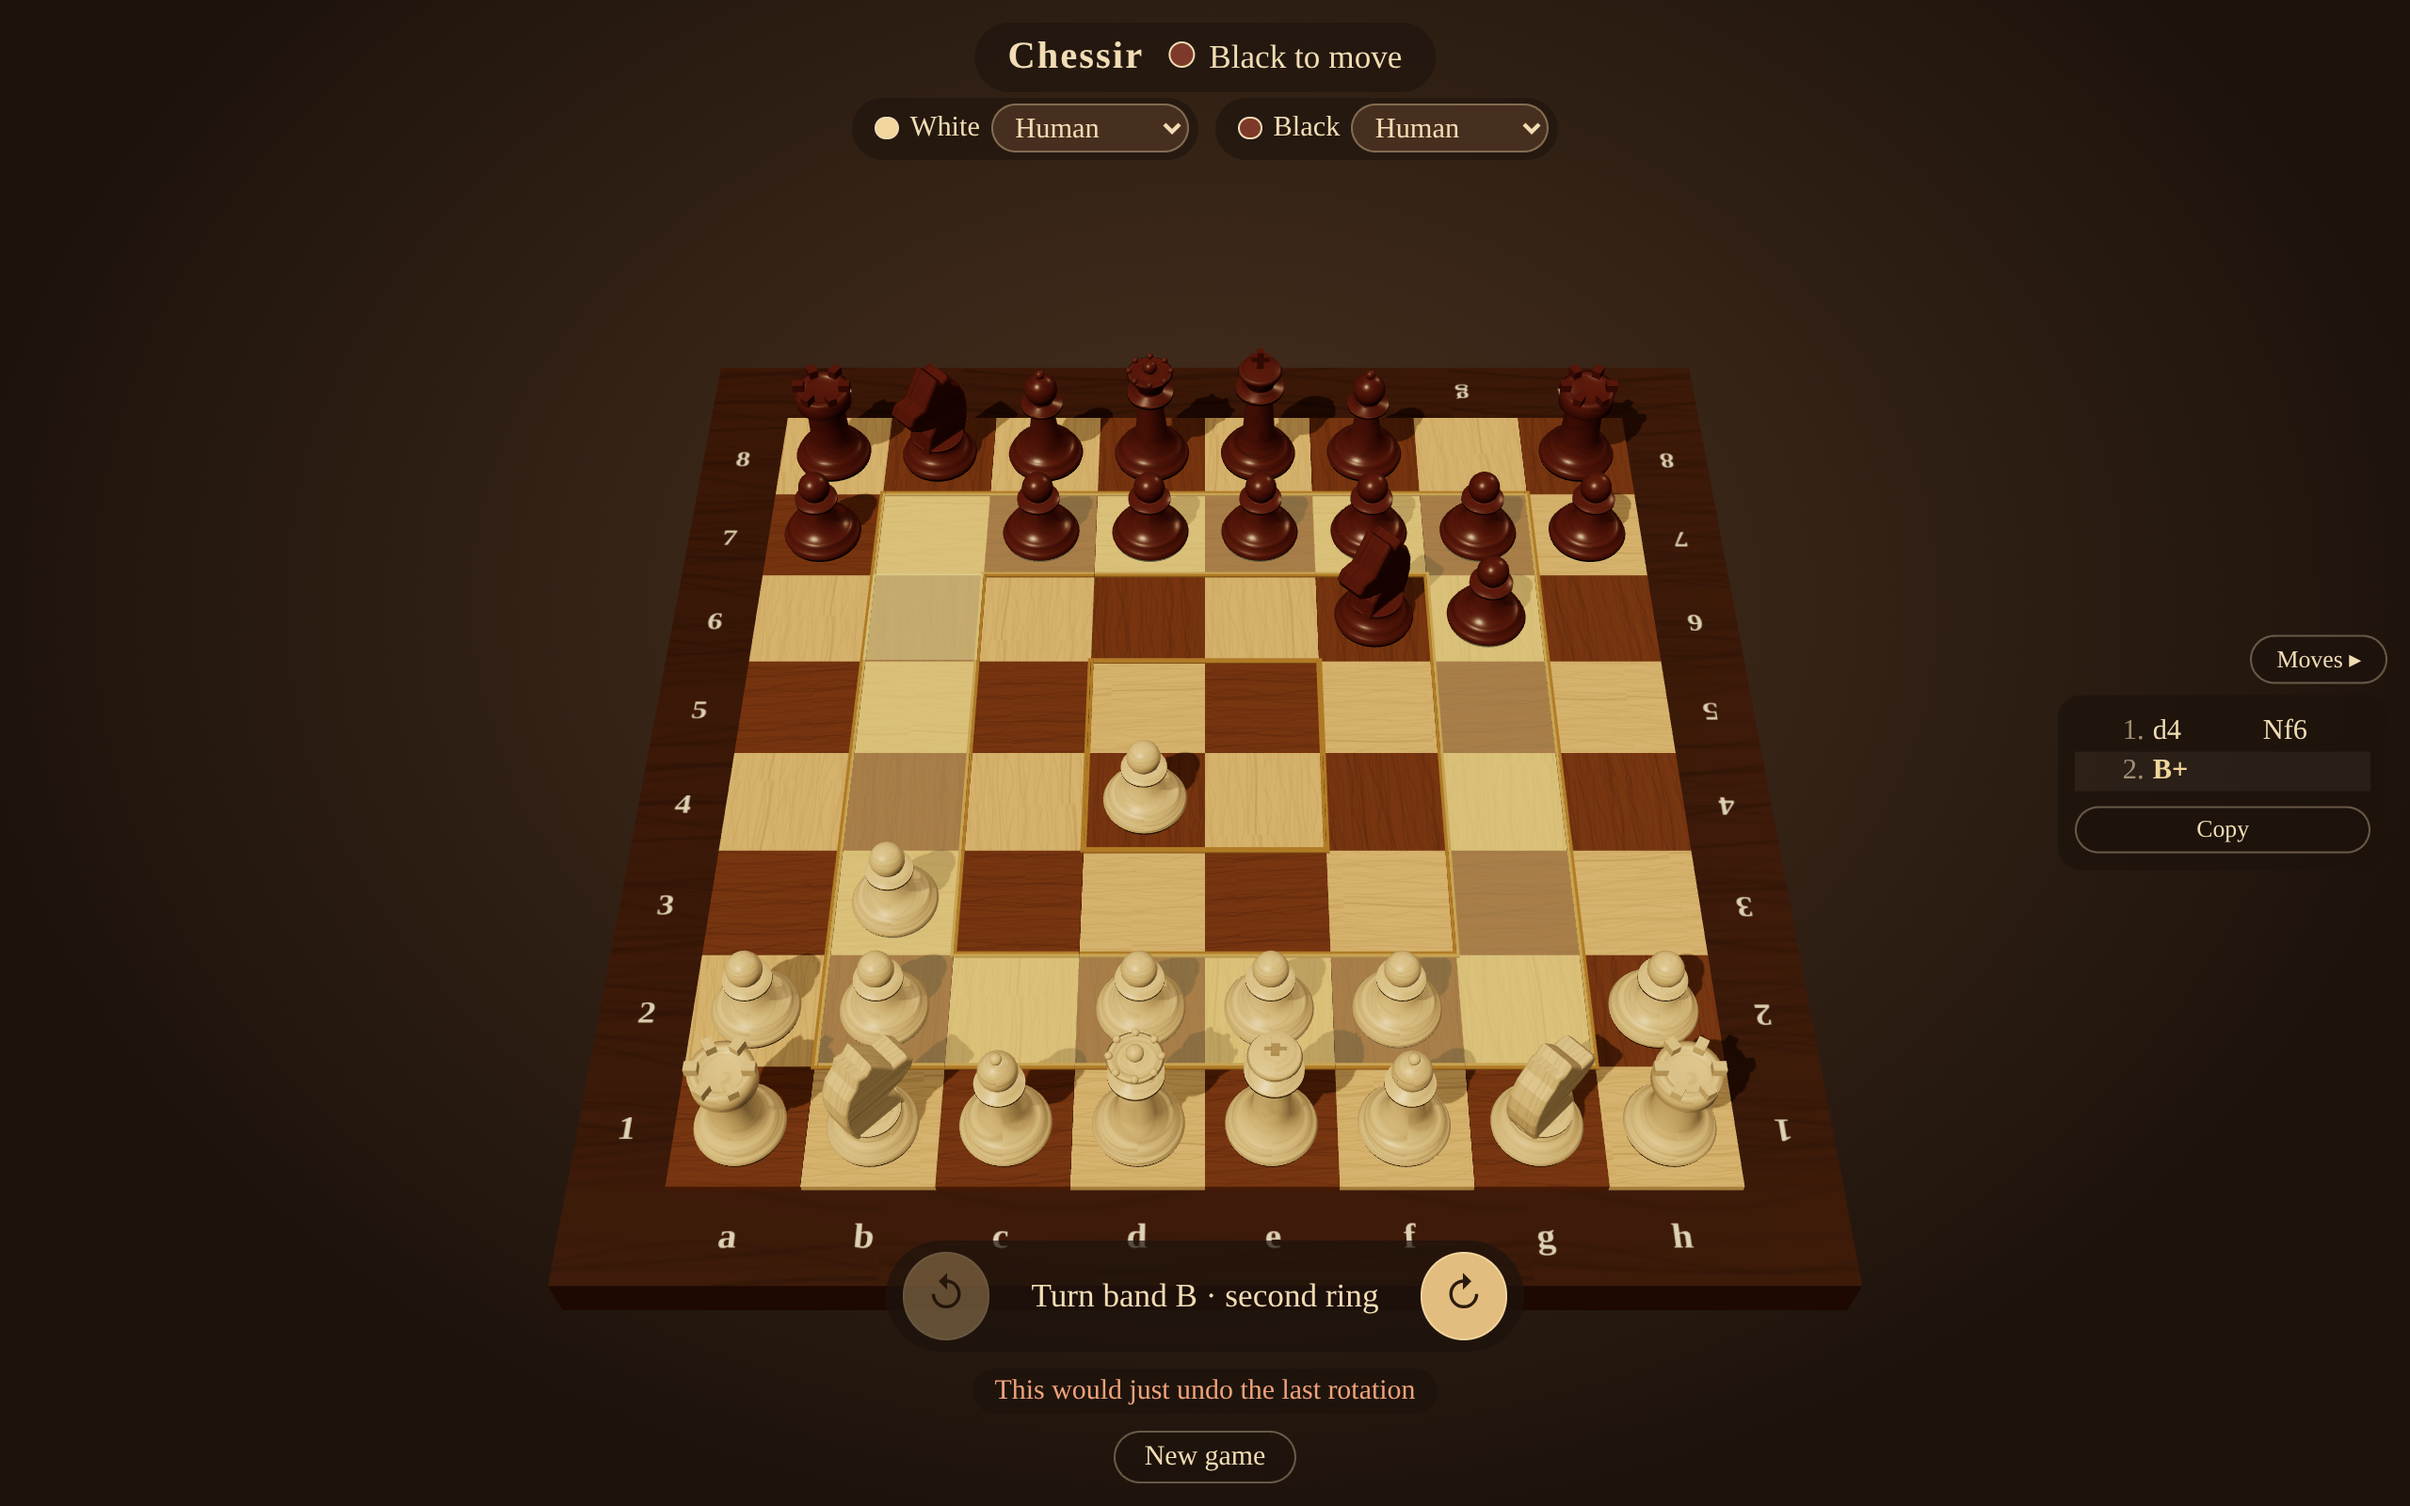
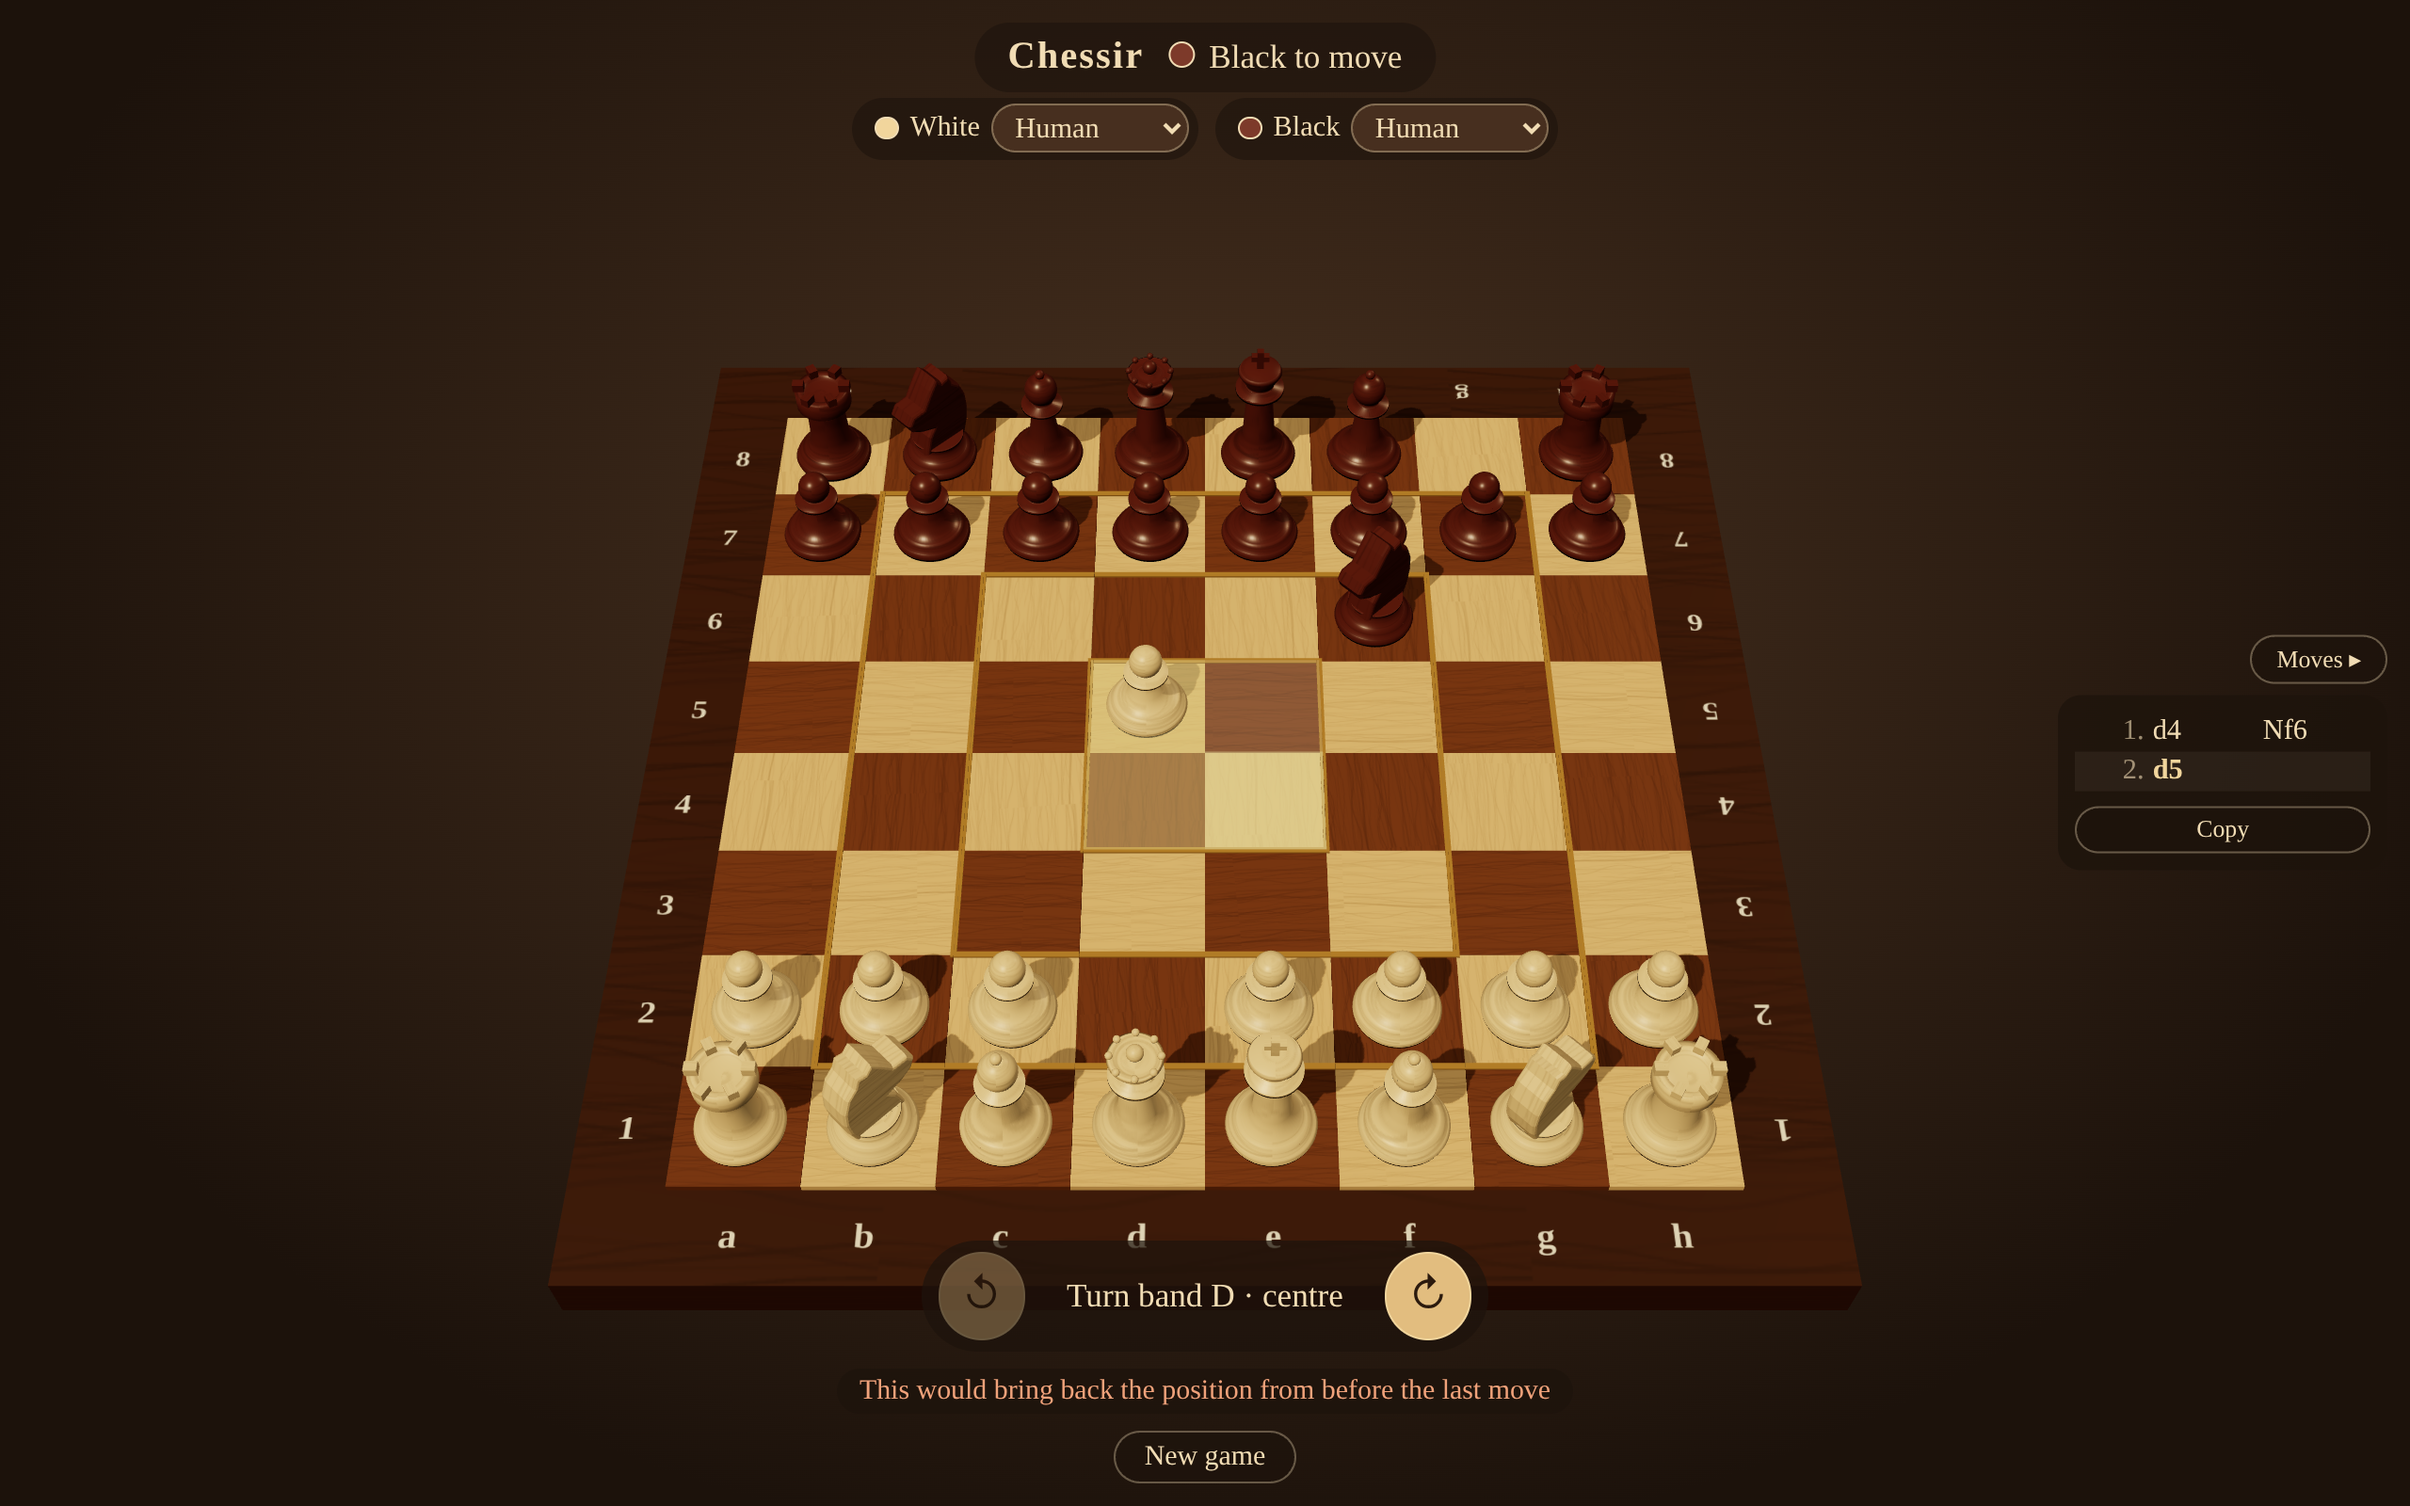
Block rotations that undo the last move and teach the bot to push pawns
A band rotation is now refused whenever it would put every piece back
where it stood before the opponent's last action. This replaces the
narrower "don't turn the same band straight back" rule and also stops a
lone piece from being carried back after it stepped along its band.
The blocked rotations stay part of the threefold-repetition key.

The greedy bot gains a pawn-advancement tiebreak, ranked after material
and threats and before mobility, so in quiet positions it walks its
leading pawn toward promotion without leaving it en prise.

Claude-Session: https://claude.ai/code/session_015uFG4zEPnZECmP5UTetsJq

diff --git a/src/game/rules.js b/src/game/rules.js
@@ -210,10 +210,16 @@ export function legalMovesFrom(state, from) {
   );
 }
 
-/** True if this rotation would simply turn back the rotation played on the previous turn. */
-function undoesLastRotation(state, band, direction) {
-  const last = state.lastAction;
-  return last?.type === 'rotate' && last.band === band && last.direction === -direction;
+const sameLayout = (a, b) =>
+  a.every((p, sq) => (p ? b[sq]?.type === p.type && b[sq]?.color === p.color : !b[sq]));
+
+/**
+ * True if this rotation would put every piece back where it stood before the opponent's
+ * last action, e.g. turning a band straight back, or carrying a piece back to where it moved from.
+ */
+function restoresPreviousBoard(state, band, direction) {
+  const before = state.previousBoard;
+  return Boolean(before) && sameLayout(rotateBand(state.board, band, direction), before);
 }
 
 /**
@@ -224,8 +230,8 @@ export function rotationBlockReason(state, band, direction) {
   if (state.result) return 'The game is over';
   const ring = bandSquares(band);
   if (!ring.some((sq) => state.board[sq])) return 'This band is empty';
-  if (undoesLastRotation(state, band, direction)) {
-    return 'This would just undo the last rotation';
+  if (restoresPreviousBoard(state, band, direction)) {
+    return 'This would bring back the position from before the last move';
   }
   const locked = [findKing(state.board, state.turn), ...checkers(state)];
   if (locked.length > 1 && locked.some((sq) => ring.includes(sq))) {
@@ -283,10 +289,14 @@ function positionKey(state) {
       }),
     )
     .join('');
-  // The blocked reverse rotation changes which turns are available, so it is part of the position.
-  const last = state.lastAction;
-  const blocked = last?.type === 'rotate' ? `${last.band}${last.direction}` : '';
-  return `${squares}|${state.turn}|${castling}|${state.enPassant}|${blocked}`;
+  // Rotations blocked by the no-undo rule change which turns are available, so they count.
+  const blocked = [];
+  for (let band = 0; band < BAND_COUNT; band++) {
+    for (const direction of [1, -1]) {
+      if (restoresPreviousBoard(state, band, direction)) blocked.push(`${band}${direction}`);
+    }
+  }
+  return `${squares}|${state.turn}|${castling}|${state.enPassant}|${blocked.join(' ')}`;
 }
 
 function onlyKingsLeft(board) {
@@ -350,6 +360,7 @@ export function applyAction(state, action) {
     moved: Object.freeze([...new Set([...state.moved, ...movedIds])]),
     halfmoveClock: resetsClock ? 0 : state.halfmoveClock + 1,
     lastAction: action,
+    previousBoard: state.board,
   });
   return Object.freeze({ ...next, result: decideResult(next) });
 }

diff --git a/src/players/greedy.js b/src/players/greedy.js
@@ -1,4 +1,5 @@
-import { BISHOP, KING, KNIGHT, PAWN, QUEEN, ROOK, opponent } from '../game/pieces.js';
+import { BOARD_SIZE, squareCoords } from '../game/board.js';
+import { BISHOP, KING, KNIGHT, PAWN, QUEEN, ROOK, WHITE, opponent } from '../game/pieces.js';
 import { applyAction, attackersOf, legalActions, legalMovesFrom } from '../game/rules.js';
 
 export const PIECE_VALUES = {
@@ -46,6 +47,20 @@ function mobility(state, color) {
   );
 }
 
+/**
+ * How far `color`'s pawns have come toward promotion. Squared, so pushing the leading pawn
+ * on beats nudging a new one. A pawn carried onto its last rank by a rotation is stuck, so it
+ * counts for nothing.
+ */
+export function pawnProgress(board, color) {
+  return board.reduce((sum, p, sq) => {
+    if (!p || p.type !== PAWN || p.color !== color) return sum;
+    const { rank } = squareCoords(sq);
+    const steps = color === WHITE ? rank - 1 : BOARD_SIZE - 2 - rank;
+    return steps > 0 && steps < BOARD_SIZE - 2 ? sum + steps * steps : sum;
+  }, 0);
+}
+
 function advantage(board, color) {
   return material(board, color) - material(board, opponent(color));
 }
@@ -59,7 +74,8 @@ export function isLosing(state) {
  * Scores an action for the side to move, compared most significant first:
  * 1. material won now (captures, promotion) minus the value of own pieces left en prise,
  * 2. the best capture it lines up for the next turn,
- * 3. how many squares its pieces can move to afterwards.
+ * 3. how far its pawns get toward promotion (a pawn left to be taken already lost on 1.),
+ * 4. how many squares its pieces can move to afterwards.
  * Checkmate beats everything; a threefold-repetition draw loses to everything unless the
  * mover is behind on material.
  */
@@ -67,13 +83,13 @@ export function scoreAction(state, action) {
   const me = state.turn;
   const them = opponent(me);
   const next = applyAction(state, action);
-  if (next.result?.outcome === 'checkmate') return [CHECKMATE_VALUE, 0, 0];
-  if (next.result?.reason === REPETITION && !isLosing(state)) return [-CHECKMATE_VALUE, 0, 0];
+  if (next.result?.outcome === 'checkmate') return [CHECKMATE_VALUE, 0, 0, 0];
+  if (next.result?.reason === REPETITION && !isLosing(state)) return [-CHECKMATE_VALUE, 0, 0, 0];
 
   const gained = advantage(next.board, me) - advantage(state.board, me);
   const exposed = losses(next.board, me).reduce((a, b) => a + b, 0);
   const threat = Math.max(0, ...losses(next.board, them));
-  return [gained - exposed, threat, mobility(next, me)];
+  return [gained - exposed, threat, pawnProgress(next.board, me), mobility(next, me)];
 }
 
 function compare(a, b) {

diff --git a/tests/greedy.test.js b/tests/greedy.test.js
@@ -68,10 +68,25 @@ describe('greedy bot', () => {
   });
 
   it('breaks ties at random among equally good actions', () => {
-    // Kd2, Ke2 and Kf2 all leave the white pieces with 12 squares to go to.
+    // a4 and h4 advance a pawn equally far and leave the same number of moves.
     const state = position({ e1: 'wK', e8: 'bK', a2: 'wP', h2: 'wP' });
-    const picks = new Set([0, 0.5, 0.99].map((r) => pick(state, () => r)));
-    expect(picks).toEqual(new Set(['e1f2', 'e1e2', 'e1d2']));
+    const picks = new Set([0, 0.99].map((r) => pick(state, () => r)));
+    expect(picks).toEqual(new Set(['a2a4', 'h2h4']));
+  });
+
+  it('pushes its most advanced pawn toward promotion when nothing else is going on', () => {
+    // b5-b6, or turning the band that carries b5 up to b6, beats a g-pawn step.
+    const state = position({ h1: 'wK', a8: 'bK', b5: 'wP', g2: 'wP' });
+    const next = applyAction(state, chooseGreedyAction(state));
+    expect(next.board[parseSquare('b6')]?.type).toBe('pawn');
+  });
+
+  it('does not push a pawn where it would just be taken', () => {
+    // b6 is covered by the a7 pawn; the g-pawn can advance safely instead.
+    const state = position({ h1: 'wK', a8: 'bK', b5: 'wP', g2: 'wP', a7: 'bP' });
+    const next = applyAction(state, chooseGreedyAction(state));
+    expect(next.board[parseSquare('b6')]).toBeNull();
+    expect(next.board[parseSquare('g4')]?.type).toBe('pawn');
   });
 
   it('only ever plays legal actions, including the no-undo rotation rule', () => {

diff --git a/tests/rules.test.js b/tests/rules.test.js
@@ -163,12 +163,25 @@ describe('band rotation as a move', () => {
 
   it('may not turn the same band straight back after the opponent rotated it', () => {
     const state = applyAction(newGame(), rotateAction(1, 1));
-    expect(rotationBlockReason(state, 1, -1)).toMatch(/undo/);
+    expect(rotationBlockReason(state, 1, -1)).toMatch(/before the last move/);
     expect(() => applyAction(state, rotateAction(1, -1))).toThrow();
     expect(rotationBlockReason(state, 1, 1)).toBeNull();
     expect(rotationBlockReason(state, 0, -1)).toBeNull();
     const later = move(state, 'g8', 'f6');
     expect(rotationBlockReason(later, 1, -1)).toBeNull();
+  });
+
+  it('may not rotate a lone piece back to where the opponent just moved it from', () => {
+    // The rook is the only piece on the outer band; turning it back would restore the old board.
+    const state = move(position({ a1: 'wR', d3: 'wK', e6: 'bK' }), 'a1', 'a2');
+    expect(rotationBlockReason(state, 0, -1)).toMatch(/before the last move/);
+    expect(rotationBlockReason(state, 0, 1)).toBeNull();
+  });
+
+  it('allows rotations that cannot restore the old board', () => {
+    // Two squares up the band is out of reach of a one-square turn.
+    const state = move(position({ a1: 'wR', d3: 'wK', e6: 'bK' }), 'a1', 'a3');
+    expect(rotationBlockReason(state, 0, -1)).toBeNull();
   });
 
   describe('while in check', () => {

diff --git a/src/game/state.js b/src/game/state.js
@@ -30,6 +30,8 @@ export function createInitialState() {
     halfmoveClock: 0,
     positions: {},
     lastAction: null,
+    // Board before lastAction; a rotation may not bring it back.
+    previousBoard: null,
     result: null,
   });
 }

diff --git a/README.md b/README.md
@@ -17,10 +17,12 @@ While your king is in check you may not rotate a band that holds your king or th
 piece. You may still escape check by rotating another band so that a piece lands between them.
 As with any move, a rotation may never leave your own king in check.
 
-A rotation may not simply undo the one before it: if your opponent has just rotated a band,
-you may not rotate that same band back in the opposite direction on your very next turn.
-Rotating it further in the same direction, or rotating any other band, is fine. Without this
-rule a game could stall forever with one band turning back and forth.
+A rotation may not undo your opponent's last move: you may not rotate a band if that would put
+every piece back exactly where it stood before their move. That covers turning a band straight
+back after your opponent rotated it, and also carrying a piece back with a rotation after it
+moved one square along its band (say a lone pawn on the centre band steps d4-d5, and you turn
+the centre so it lands on d4 again). Any rotation that leads somewhere new is fine. Without this
+rule a game could stall forever with the same two positions taking turns.
 
 Details that follow from the twist:
 
@@ -31,8 +33,8 @@ Details that follow from the twist:
   stays a pawn and cannot move forward until a rotation carries it off again; promotion happens
   only by moving there.
 - An empty band cannot be rotated (that would be a "pass").
-- Because of the no-undo rule, whether that reverse rotation is available is part of the
-  position when counting threefold repetition.
+- Because of the no-undo rule, which rotations it blocks are part of the position when counting
+  threefold repetition.
 - The game ends in checkmate, or in a draw by stalemate, threefold repetition, the fifty-move
   rule, or when only the two kings remain.
 
@@ -62,7 +64,7 @@ screens and closed on phones, and remembers your choice.
 
 ![In check: the king's ring is locked](docs/screenshots/in-check.png)
 
-![White just turned the second ring clockwise, so Black may not turn it straight back](docs/screenshots/no-undo.png)
+![White's lone centre pawn just stepped d4-d5, so Black may not turn the centre band to carry it back](docs/screenshots/no-undo.png)
 
 ## Notation
 
@@ -91,8 +93,14 @@ picks the best by these priorities, in order:
    (counts the difference). So it will not grab a pawn with its queen if the queen is then lost.
 3. If that ties (typically when nothing can be captured), the best capture it lines up for its
    next turn, valued the same way.
-4. If that also ties, the most squares its pieces can move to afterwards.
-5. If still tied, a random pick among the best.
+4. If that also ties, pushing its pawns toward promotion: it prefers the action that leaves its
+   pawns furthest advanced, counting each pawn's squares gained squared, so it keeps pushing its
+   leading pawn rather than nudging a new one each turn. A rotation that carries a pawn forward
+   counts too; a pawn carried onto its last rank, where it is stuck, counts for nothing. Because
+   step 2 comes first, it never pushes a pawn where it can simply be taken unless something
+   equal is won in return.
+5. If that also ties, the most squares its pieces can move to afterwards.
+6. If still tied, a random pick among the best.
 
 It also avoids a draw by threefold repetition: an action that would repeat the position for
 the third time ranks below every other one, so it is played only if nothing else is legal.
